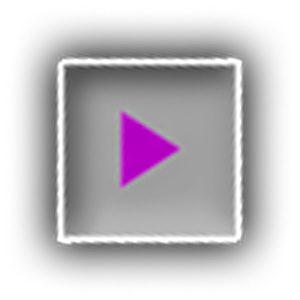
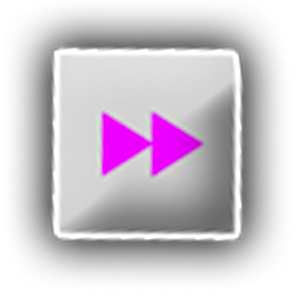
fixed player

diff --git a/index.html b/index.html
@@ -8,18 +8,16 @@
 </head>
 <body>
     <header>
-        <img src="assets/images/title.png" alt="Divorce.fm - We Love Music" class="title-image">
+        <img src="assets/images/title.png" alt="Divorce.fm - We Love Music" class="title">
     </header>
     <main>
         <div class="player-container">
+                <img src="assets/images/buttonplay.png" alt="Play Button" id="play" class="control-button">
+                <img src="assets/images/buttonnext.png" alt="Next Button" id="next" class="control-button">
             <div class="player" id="player">
-                <img src="assets/images/textfield.png" alt="Track Title Placeholder" class="track-title-placeholder">
+                <img src="assets/images/textfield.png" alt="Track Title Placeholder" class="track-title">
             </div>
-            <div class="controls">
-                <img src="assets/images/buttonplay_pressed.png" alt="Play Button" id="play" class="control-button">
-                <img src="assets/images/buttondot_pressed.png" alt="Pause Button" id="pause" class="control-button">
-                <img src="assets/images/buttonnext_pressed.png" alt="Next Button" id="next" class="control-button">
-            </div>
+                <img src="assets/images/buttondot.png" alt="Pause Button" id="pause" class="control-button">
         </div>
     </main>
     <script src="https://w.soundcloud.com/player/api.js"></script>

diff --git a/script.js b/script.js
@@ -11,7 +11,7 @@ document.addEventListener("DOMContentLoaded", function () {
 
     function loadTrack(trackUrl) {
         const playerContainer = document.getElementById('player');
-        playerContainer.innerHTML = '';
+        playerContainer.innerHTML = '<img src="assets/images/textfield.png" alt="Track Title Placeholder" class="track-title">';
 
         widget = SC.Widget(playerContainer);
         widget.load(trackUrl, {
@@ -35,7 +35,7 @@ document.addEventListener("DOMContentLoaded", function () {
         nextButton.src = "assets/images/buttonnext_pressed.png";
         currentTrackIndex = (currentTrackIndex + 1) % tracks.length;
         loadTrack(tracks[currentTrackIndex]);
-    }
+    }    
 
     playButton.addEventListener('click', playTrack);
     pauseButton.addEventListener('click', pauseTrack);

diff --git a/assets/css/style.css b/assets/css/style.css
@@ -1,5 +1,4 @@
 body {
-    font-family: Arial, sans-serif;
     text-align: center;
     margin: 0;
     padding: 0;
@@ -8,28 +7,28 @@ body {
 }
 
 header {
-    margin-bottom: 20px;
+    margin-bottom: 2px;
 }
 
-.title-image {
-    max-width: 100%;
-    height: auto;
-}
-
-.player-container {
+.title {
+    width: 80%;
+    max-width: 1200px;
     margin-top: 10em;
 }
 
-.player {
-    margin: 20px;
+.player-container {
+    margin: 30px;
+    margin-top: 220px;
     padding: 10px;
     display: inline-block;
     border-radius: 10px;
 }
 
-.controls {
-    margin: 20px;
+.player {
+    display: inline;
+    height: 50px;
 }
+
 
 .control-button {
     margin: 5px;
